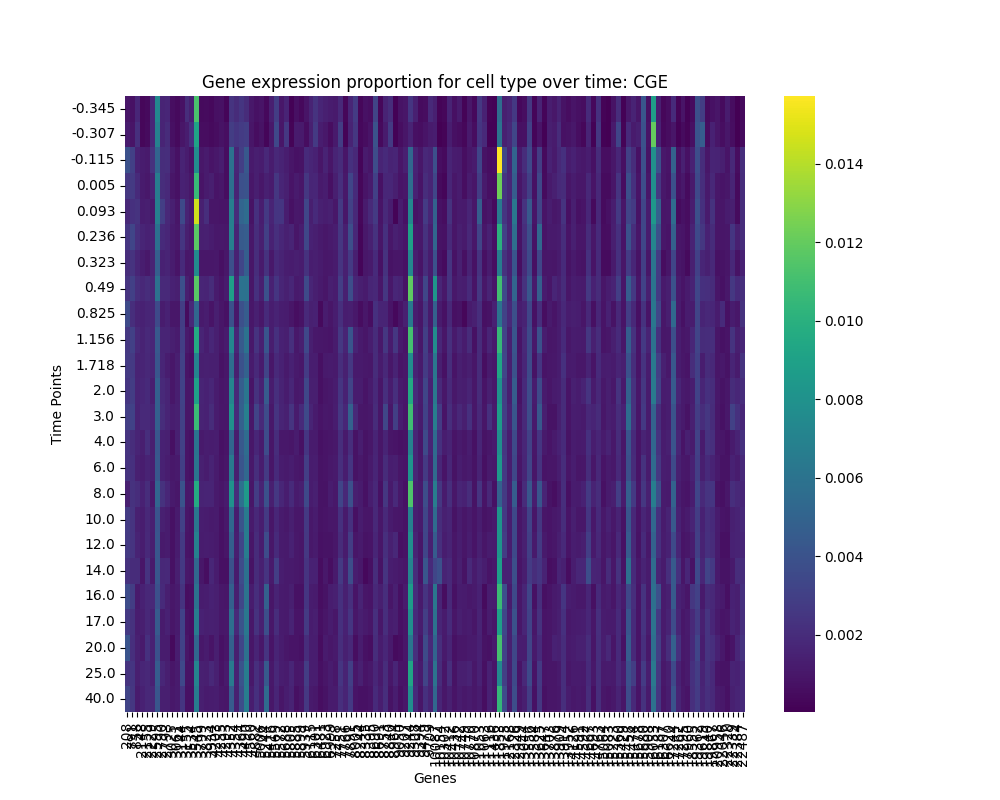
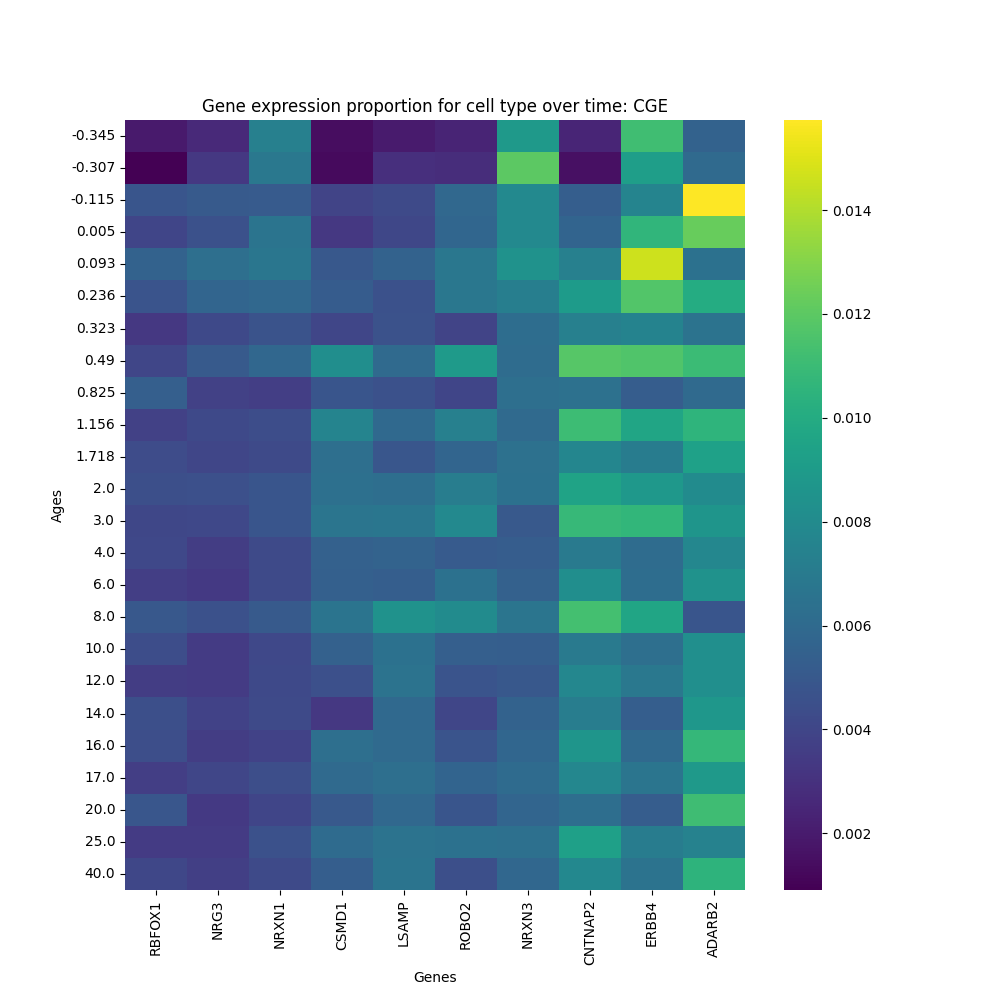
Add in heatmaps for the whole dataset as well and do top n genes

diff --git a/simple/bulk_analyze.py b/simple/bulk_analyze.py
@@ -3,10 +3,13 @@ import torch
 import numpy as np
 import matplotlib.pyplot as plt
 import seaborn as sns
+import argparse
 
-scrna_seq = sc.read_h5ad(
-    f'../data/Processed_data_RNA-gaba_full-counts-and-downsampled-CPM.h5ad'
-)
+argparser = argparse.ArgumentParser()
+argparser.add_argument('--data_path', type=str, default='../data/Processed_data_RNA-gaba_full-counts-and-downsampled-CPM.h5ad')
+args = argparser.parse_args()
+
+scrna_seq = sc.read_h5ad(args.data_path)
 
 def get_query_copy(query):
     return scrna_seq[scrna_seq.obs.query(query).index].copy()
@@ -43,26 +46,31 @@ def get_bulk_data(data):
     
     return bulk_data, times_sorted, idx_and_cell_types
 
-bulk_data, times_sorted, idx_and_cell_types = get_bulk_data(scrna_seq)
-normalized_bulk_data = torch.zeros_like(bulk_data)
-for idx, _ in idx_and_cell_types:
-    normalized_bulk_data[idx] = bulk_data[idx] / bulk_data[idx].sum(1, keepdim=True)
-print(normalized_bulk_data.shape)
+def normalize_data(bulk_data):
+    normalized_bulk_data = torch.zeros_like(bulk_data)
+    for idx, _ in idx_and_cell_types:
+        normalized_bulk_data[idx] = bulk_data[idx] / bulk_data[idx].sum(1, keepdim=True)
+    return normalized_bulk_data
 
-def heatmap(data, cell_idx, celltype):
-    plt.figure(figsize=(10, 8))
-    non_zero = data[cell_idx][:, data[cell_idx].sum(0) > 0.02]
+
+bulk_data, times_sorted, idx_and_cell_types = get_bulk_data(scrna_seq)
+normalized_bulk_data = normalize_data(bulk_data)
+
+
+def heatmap(data, cell_idx, celltype, gene_labels, n=10):
+    plt.figure(figsize=(10, 10))
+    top_n_columns = np.argsort(data[cell_idx].sum(0))[-n:]
+    non_zero = data[cell_idx][:, top_n_columns]
+
     sns.heatmap(non_zero.numpy(), cmap='viridis')
     plt.title(f'Gene expression proportion for cell type over time: {celltype}')
     plt.xlabel('Genes')
-    plt.ylabel('Time Points')
-
-    x_labels = np.arange(data[cell_idx].shape[1])[np.where(data[cell_idx].sum(0) > 0.02)[0]]
+    plt.ylabel('Ages')
 
     # add time labels
     plt.xticks(
-        ticks=np.arange(len(x_labels))+0.5,
-        labels=x_labels,
+        ticks=np.arange(len(top_n_columns))+0.5,
+        labels=[gene_labels[col] for col in top_n_columns.tolist()],
         rotation=90,
     )
     plt.yticks(
@@ -73,5 +81,7 @@ def heatmap(data, cell_idx, celltype):
     plt.savefig(f'./figures/heatmap_{celltype}.png')
     print(f'Saved figure for heatmap_{celltype}.png')
 
+gene_labels = scrna_seq.var['non-unique_names'].tolist()
+
 for idx, cell_type in idx_and_cell_types:
-    heatmap(normalized_bulk_data, idx, cell_type)
+    heatmap(normalized_bulk_data, idx, cell_type, gene_labels)

diff --git a/simple/linear_regression.py b/simple/linear_regression.py
@@ -1,0 +1,15 @@
+import scanpy as sc
+import torch
+import numpy as np
+import matplotlib.pyplot as plt
+import seaborn as sns
+import argparse
+from bulk_analyze import get_bulk_data
+
+argparser = argparse.ArgumentParser()
+argparser.add_argument('--data_path', type=str, default='../data/Processed_data_RNA-gaba_full-counts-and-downsampled-CPM.h5ad')
+args = argparser.parse_args()
+
+scrna_seq = sc.read_h5ad(args.data_path)
+
+bulk_data, times_sorted, idx_and_cell_types = get_bulk_data(scrna_seq)
